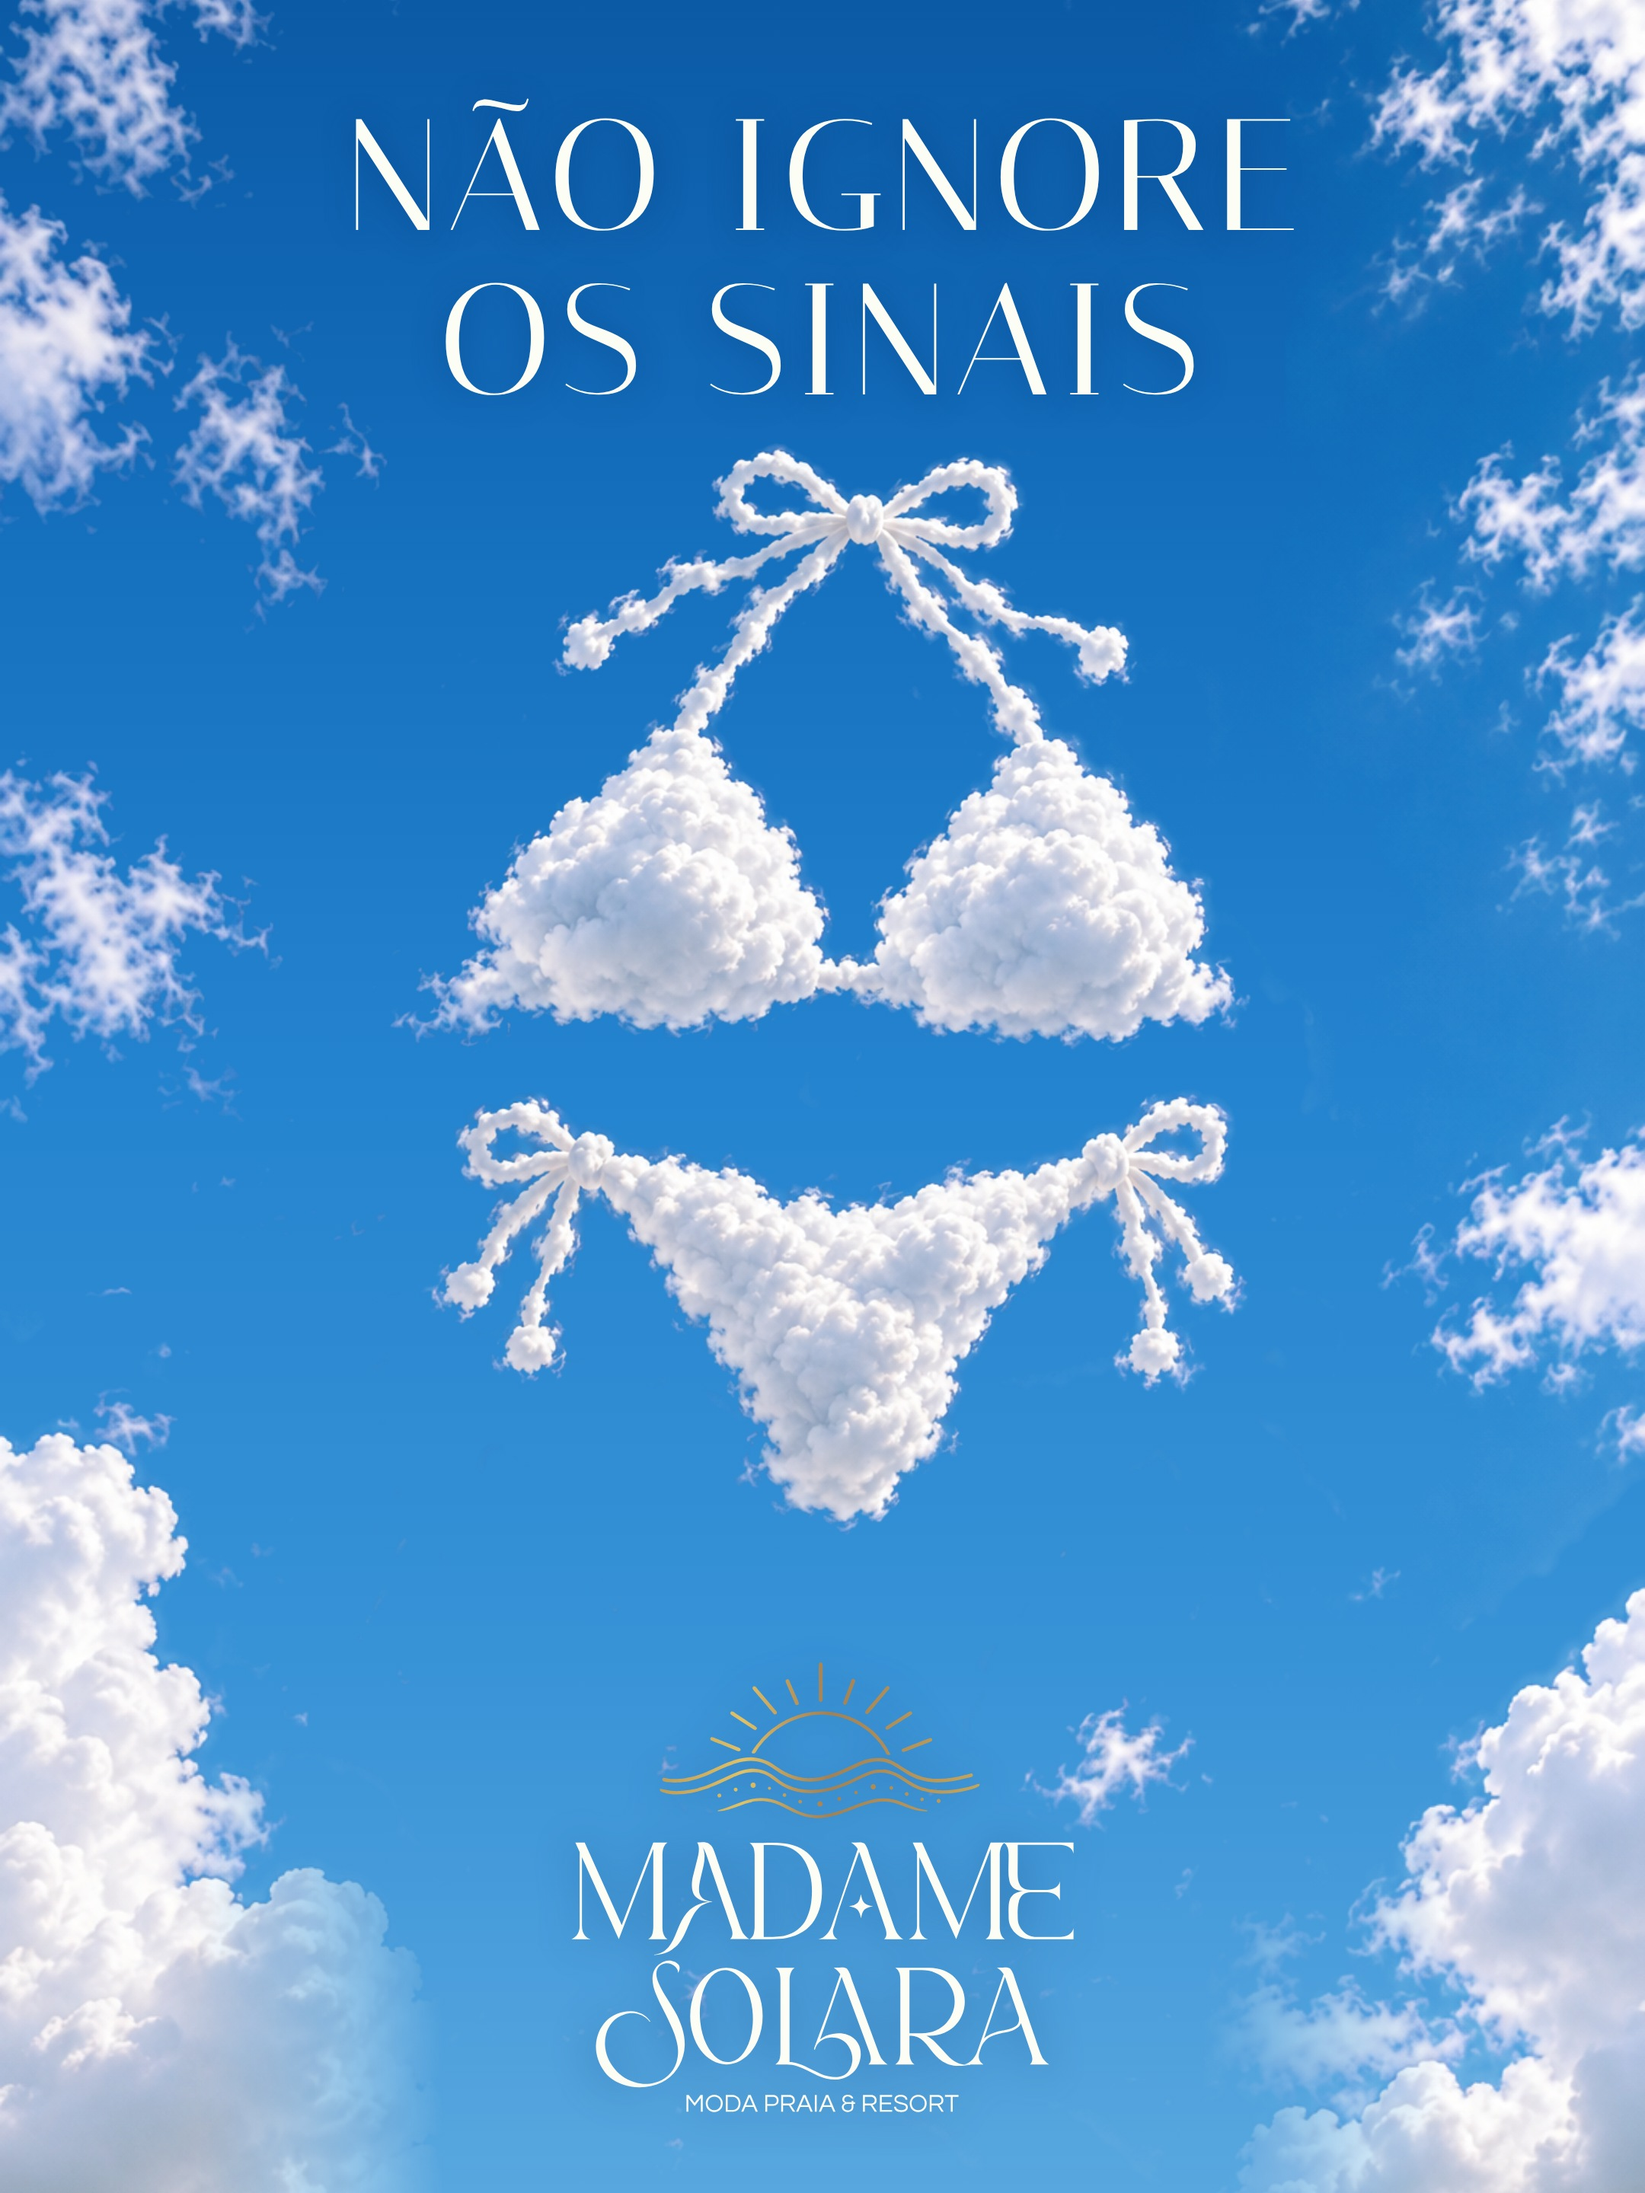
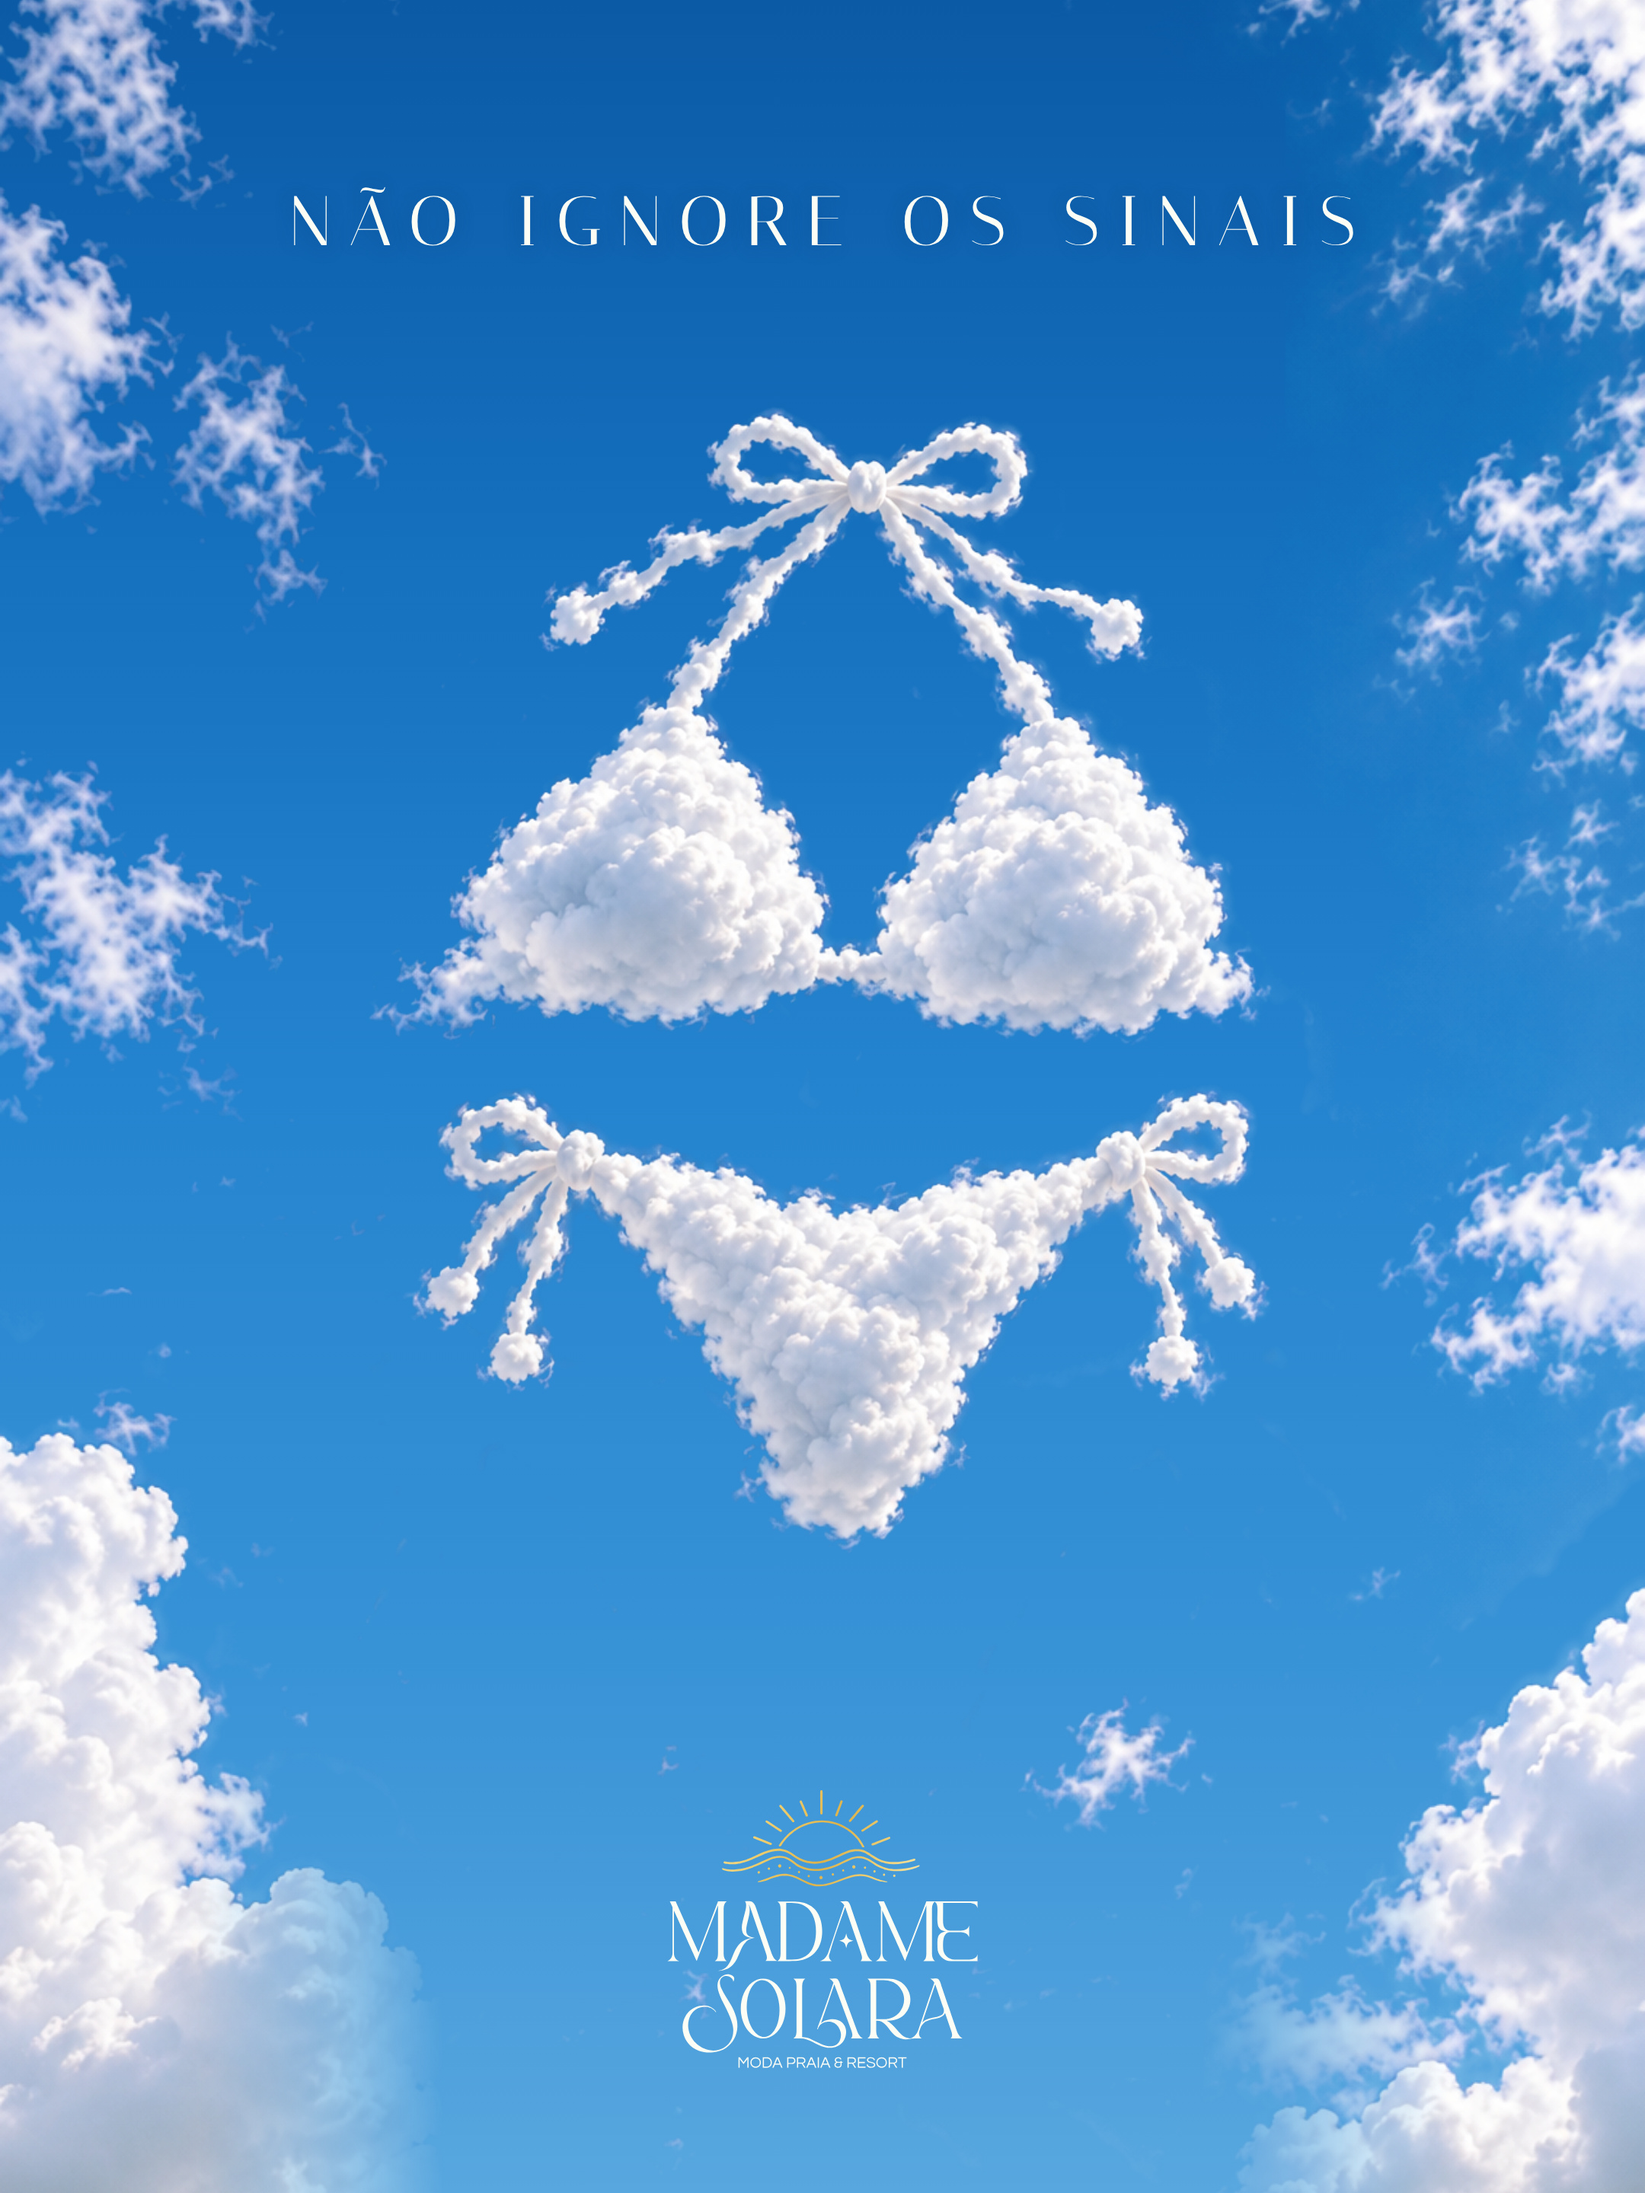
Deixa a foto minimalista e corrige a qualidade do sol dourado
Frase em uma linha pequena e logo reduzido. O sol passa a ser traço
vetorial com dourado limpo e a foto sai em JPEG sem subamostragem de cor.

Claude-Session: https://claude.ai/code/session_01SzAcbP1P9JJZBFuRdp2zSG

diff --git a/madame-solara/reels/sinais/foto/foto.html b/madame-solara/reels/sinais/foto/foto.html
@@ -47,36 +47,37 @@
         mask-image: linear-gradient(90deg, #000 0%, #000 12%, transparent 27%, transparent 73%, #000 88%, #000 100%);
       }
       #cima {
-        left: 251px;
-        top: 286px;
-        width: 578px;
+        left: 237px;
+        top: 262px;
+        width: 606px;
       }
       #baixo {
-        left: 271px;
-        top: 709px;
-        width: 555px;
+        left: 258px;
+        top: 706px;
+        width: 583px;
       }
       #frase {
         position: absolute;
         left: 0;
-        top: 62px;
+        top: 118px;
         width: 1080px;
         text-align: center;
+        white-space: nowrap;
+        /* Uma linha só, pequena e bem espaçada: a marca é minimalista. */
         font-family: "Italiana", serif;
-        font-size: 104px;
-        line-height: 1.04;
-        letter-spacing: 0.05em;
-        text-indent: 0.05em;
+        font-size: 46px;
+        line-height: 1.2;
+        letter-spacing: 0.26em;
+        text-indent: 0.26em;
         text-transform: uppercase;
         color: #fcfdf5;
-        text-shadow: 0 2px 22px rgba(0, 52, 120, 0.45);
+        text-shadow: 0 1px 12px rgba(0, 52, 120, 0.35);
       }
       /* Logo vertical com o sol dourado e o nome em branco, para se ler sobre o céu. */
       #logo {
-        left: 370px;
-        top: 1086px;
-        width: 340px;
-        filter: drop-shadow(0 2px 14px rgba(0, 40, 100, 0.45));
+        left: 435px;
+        top: 1172px;
+        width: 210px;
       }
     </style>
   </head>
@@ -86,7 +87,7 @@
       <img id="base" src="../assets/nuvens/nuvens-base.png" alt="" />
       <img id="cima" src="../assets/nuvens/biquini-cima.png" alt="" />
       <img id="baixo" src="../assets/nuvens/biquini-baixo.png" alt="" />
-      <div id="frase">Não ignore<br />os sinais</div>
+      <div id="frase">Não ignore os sinais</div>
       <img id="logo" src="../assets/logo-vertical-ceu.svg" alt="Madame Solara, moda praia e resort" />
     </div>
   </body>

diff --git a/madame-solara/reels/sinais/REVIEW.md b/madame-solara/reels/sinais/REVIEW.md
@@ -1,6 +1,6 @@
 # Revisão: "Não ignore os sinais" (foto e Reels)
 
-Quarta rodada. A cliente pediu a fonte da primeira foto (Italiana) com o logo no visual colorido, achou feio o rodapé creme que isso exigia e pediu o nome "Madame Solara" em branco.
+Quinta rodada. A cliente pediu a fonte da primeira foto (Italiana), o logo com o sol dourado e o nome em branco, e depois apontou que o dourado estava com baixa qualidade e que a frase e o logo estavam grandes demais para uma marca minimalista.
 
 - Foto: `foto/nao-ignore-os-sinais.jpg` (2160x2880, proporção 3:4 do feed). Fonte editável em `foto/foto.html`.
 - Vídeo: `renders/madame-solara-sinais.mp4` (1080x1920, 30 fps, 8 s, H.264 com áudio AAC). Não mudou nesta rodada: segue com Montserrat e o monograma MS com anel dourado.
@@ -8,8 +8,9 @@ Quarta rodada. A cliente pediu a fonte da primeira foto (Italiana) com o logo no
 ## O que foi decidido
 
 - A base é a imagem de referência enviada pela cliente. As nuvens foram recortadas do céu em quatro camadas transparentes, em `assets/nuvens/`, e o texto original saiu no recorte. O céu é um degradê refeito, um pouco menos saturado que o da referência.
-- Foto: céu inteiro, com a frase em Italiana no alto, o biquíni no centro e o logo vertical embaixo. As nuvens do rodapé se abrem no centro para o logo ficar sobre o azul.
-- Logo da foto (`assets/logo-vertical-ceu.svg`): feito a partir do logo vertical colorido do manual, com o nome e a assinatura em branco. O sol continua dourado, mas com o degradê clareado em 42%, porque os trechos marrons do dourado original ficavam apagados sobre o céu. O desenho não foi alterado.
+- Foto: céu inteiro e o biquíni como protagonista. A frase vai em uma linha só, pequena e bem espaçada (Italiana, 46 px em 1080), e o logo vertical fica pequeno embaixo (210 px de largura). As nuvens do rodapé se abrem no centro para o logo ficar sobre o azul.
+- Logo da foto (`assets/logo-vertical-ceu.svg`): os traços do logo vertical branco do manual, com o nome e a assinatura em branco e o sol preenchido por um degradê dourado claro. É vetor puro, sem recorte nem sombra.
+- Qualidade do dourado: a versão anterior saía em JPEG com subamostragem de cor 4:2:0, que borra linhas finas e saturadas, e usava o sol do logo colorido, que é um degradê recortado. Agora o sol é traço vetorial e a foto é exportada em JPEG 4:4:4 com qualidade 96.
 - Vídeo: um quadro só, com frase, biquíni e monograma juntos do começo ao fim. O biquíni é levado pelo vento e passa por dois campos de ruído que deslizam e deformam as bordas aos poucos, como nuvem; cada peça também respira e balança por conta própria. As nuvens do fundo e do rodapé andam em velocidades diferentes. Um reflexo corre pelo anel dourado aos 2,9 s e a estrela pisca aos 5,7 s.
 
 ## O que foi medido e o que só foi visto
